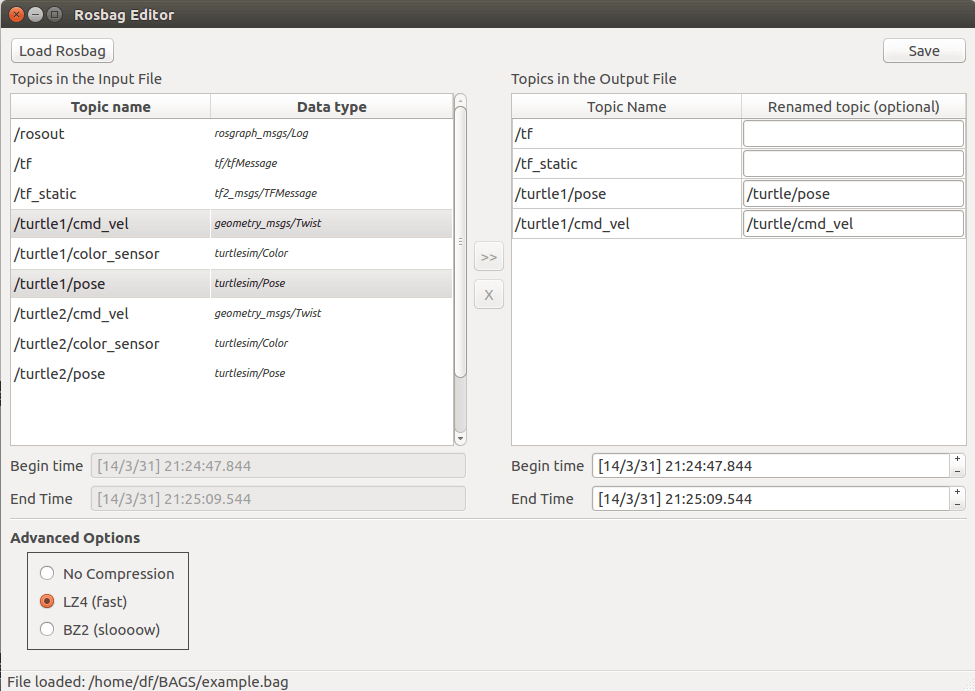
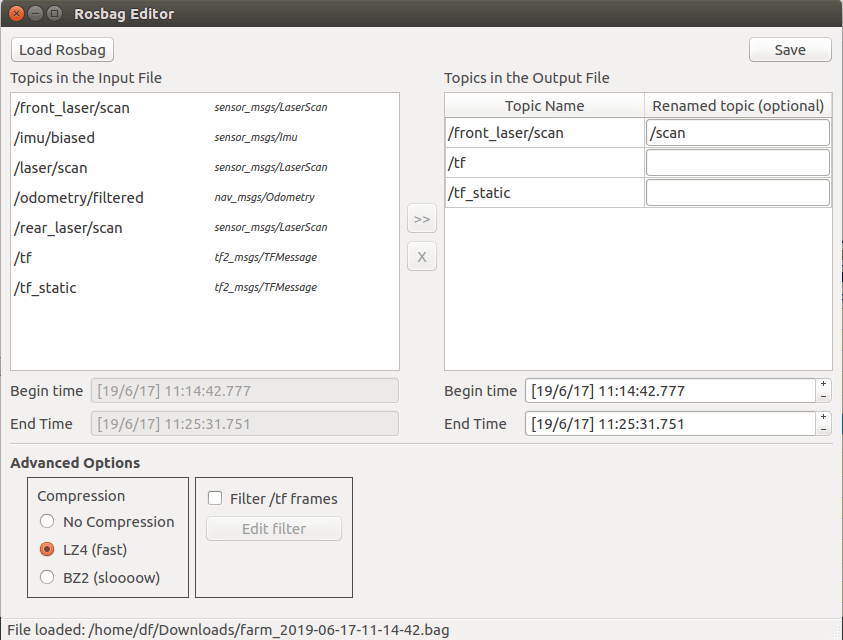
image and readme updated

diff --git a/README.md b/README.md
@@ -4,8 +4,9 @@ If you need to:
 
 - remove one or more topics from a [rosbag](http://wiki.ros.org/rosbag).
 - change the duration of the rosbag (initial and final time).
-- rename a topic
-- add/change/remove compression.
+- rename a topic.
+- change the compression type.
+- remove specific transformations from your **/tf**.
 
 and, most importantly:
 
